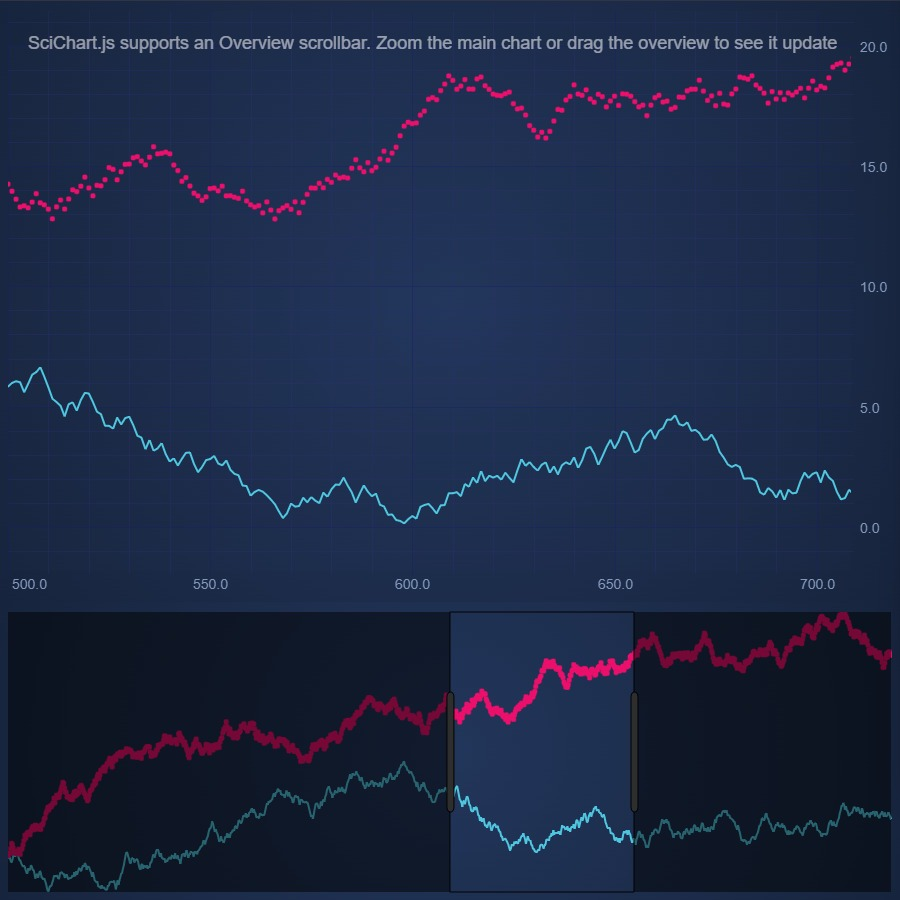
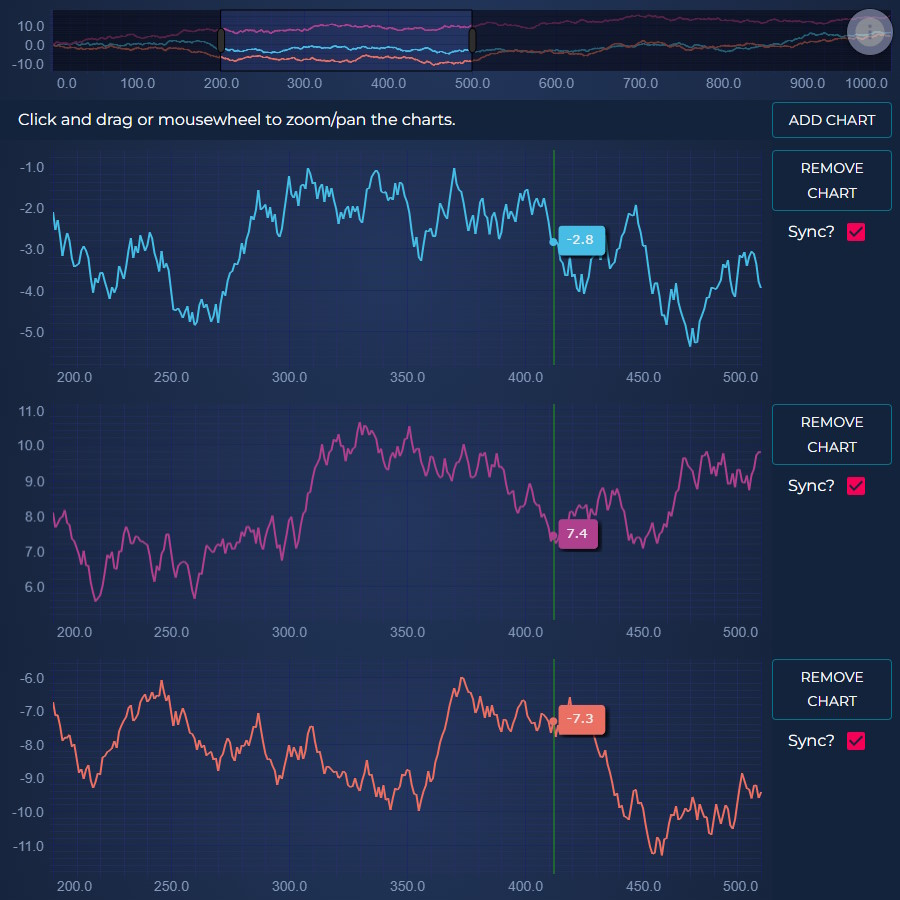
chore(Examples): Improved styling for new example

diff --git a/Examples/src/components/Examples/Charts2D/MultiChart/SyncMultiChart/index.tsx b/Examples/src/components/Examples/Charts2D/MultiChart/SyncMultiChart/index.tsx
@@ -21,6 +21,7 @@ import {
     NumberRange,
     NumericAxis,
     OverviewRangeSelectionModifier,
+    RolloverModifier,
     RubberBandXyZoomModifier,
     SciChartOverview,
     SciChartSurface,
@@ -32,7 +33,7 @@ import {
     ZoomExtentsModifier,
     ZoomPanModifier
 } from "scichart";
-import { Button, Checkbox, FormControlLabel } from "@material-ui/core";
+import { Button, Checkbox, FormControlLabel, Typography } from "@material-ui/core";
 
 export const divOverview = "multiChartOverview";
 export const divChart1 = "multiChart1";
@@ -80,7 +81,8 @@ class AxisSynchroniser {
 
 const createChart = async (divId: string, id: number) => {
     const { wasmContext, sciChartSurface } = await SciChartSurface.create(divId, {
-        theme: appTheme.SciChartJsTheme
+        theme: appTheme.SciChartJsTheme,
+        disableAspect: true
     });
 
     // Create and add an XAxis and YAxis
@@ -104,15 +106,20 @@ const createChart = async (divId: string, id: number) => {
         })
     );
 
-    sciChartSurface.chartModifiers.add(new ZoomPanModifier());
-    sciChartSurface.chartModifiers.add(new RubberBandXyZoomModifier({ executeOn: EExecuteOn.MouseRightButton }));
-    sciChartSurface.chartModifiers.add(new ZoomExtentsModifier());
-    sciChartSurface.chartModifiers.add(new MouseWheelZoomModifier());
+    // Use modifierGroup to trigger the modifier in the same place on multiple charts
+    sciChartSurface.chartModifiers.add(new RolloverModifier({ modifierGroup: "one"}),
+        new RubberBandXyZoomModifier({ executeOn: EExecuteOn.MouseRightButton, modifierGroup:"one" }),
+        // These do not need modifierGroup as the xAxes are synchronised.
+        new ZoomPanModifier(),
+        new ZoomExtentsModifier(),
+        new MouseWheelZoomModifier());
 
     return { sciChartSurface, wasmContext };
 }
 
 const createOverview = async (divId: string, axisSynchroniser: AxisSynchroniser) => {
+    // Note this does not use SciChartOverview. 
+    // Instead we create a normal chart and then manually add the OverviewRangeSelectionModifier and bind it to the axisSynchroniser
     const { wasmContext, sciChartSurface } = await SciChartSurface.create(divId, {
         theme: appTheme.SciChartJsTheme
     });
@@ -129,6 +136,7 @@ const createOverview = async (divId: string, axisSynchroniser: AxisSynchroniser)
     );
 
     const rangeSelectionModifier = new OverviewRangeSelectionModifier();
+    // When the range selection is moved, updated the linked charts
     rangeSelectionModifier.onSelectedAreaChanged = (selectedRange: NumberRange) => {
         if (!selectedRange.equals(axisSynchroniser.visibleRange)) {
             axisSynchroniser.publishChange({ visibleRange: selectedRange });
@@ -137,6 +145,7 @@ const createOverview = async (divId: string, axisSynchroniser: AxisSynchroniser)
     rangeSelectionModifier.selectedArea = axisSynchroniser.visibleRange;
     sciChartSurface.chartModifiers.add(rangeSelectionModifier);
 
+    // When charts are moved, update the range selection
     axisSynchroniser.visibleRangeChanged.subscribe(({ visibleRange }) => {
         const updatedSelectedRange = visibleRange.clip(xAxis.visibleRange);
         const shouldUpdateSelectedRange = !updatedSelectedRange.equals(rangeSelectionModifier.selectedArea);
@@ -179,37 +188,44 @@ const useStyles = makeStyles(theme => ({
     },
     chartRow: {
         display: "flex",
+        flex: "auto",
         flexDirection: "row",
-        flexBasis: "70px",
-        padding: 5,
+        padding: 0,
+        width: "100%",
+        color: appTheme.ForegroundColor
+    },
+    emptyRow: {
+        display: "flex",
+        flexBasis: 0,
+        padding: 0,
         width: "100%",
         color: appTheme.ForegroundColor
     },
     toolCol: {
         display: "flex",
-        // flex: "auto",
-        flexBasis: "70px",
-        padding: 5,
+        flex: "none",
+        width: "130px",
+        padding: "10 10 5 0",
         color: appTheme.ForegroundColor
     },
     chartArea: {
-        flex: 1,
+        flex: "auto",
         padding: "0",
-        "min-height": "70px",
-        height: "100px",
-        resize: "vertical",
-        overflow: "hidden"
+        height: "100%",
       }
 }));
 
 
 export default function SyncMultiChart() {
-    const [chartPanes, setChartPanes] = React.useState<ChartPane[]>([{ id: 0, divId: divOverview, isSynced: true, sciChartSurface: undefined},
+    // We are using a fixed set of divs here as it simplifies the html handling, but this could with dynamic html and an arbitrary number of charts
+    const [chartPanes, setChartPanes] = React.useState<ChartPane[]>([
+        { id: 0, divId: divOverview, isSynced: true, sciChartSurface: undefined},
         { id: 1, divId: divChart1, isSynced: true, sciChartSurface: undefined},
         { id: 2, divId: divChart2, isSynced: true, sciChartSurface: undefined},
         { id: 3, divId: divChart3, isSynced: true, sciChartSurface: undefined},
         { id: 4, divId: divChart4, isSynced: true, sciChartSurface: undefined},
         { id: 5, divId: divChart5, isSynced: true, sciChartSurface: undefined}]);
+        
     const verticalGroupRef = React.useRef<SciChartVerticalGroup>(new SciChartVerticalGroup());
     const axisSynchroniserRef = React.useRef<AxisSynchroniser>(new AxisSynchroniser(new NumberRange(200, 500)));
 
@@ -229,7 +245,7 @@ export default function SyncMultiChart() {
 
     React.useEffect(() => {
 
-        const chartInitializationPromise = addChart(0).then(() => addChart(1)).then(() => addChart(2));
+        const chartInitializationPromise = Promise.all([addChart(0), addChart(1),addChart(2),addChart(3)]);
 
         // Delete sciChartSurface on unmount component to prevent memory leak
         return () => {
@@ -285,38 +301,47 @@ export default function SyncMultiChart() {
         setChartPanes([...chartPanes]);
     }
 
+    const firstFreePane = chartPanes.find(pane => !pane.sciChartSurface);
     return (
         <div className={classes.ChartWrapper}>
             <div className={localClasses.flexOuterContainer}>
-                {chartPanes.map(pane => 
-                    <div className={localClasses.chartRow} key={pane.id}>
-                        <div className={localClasses.chartArea} id={pane.divId}></div>
-                        <div className={localClasses.toolCol}>
-                            {(pane.id > 0) ?
-                                (pane.sciChartSurface ? <div>
-                            <Button color="primary" onClick={() => removeChart(pane.id)}>
-                                Remove Chart
-                            </Button>
-                            <FormControlLabel
-                                control={
-                                    <Checkbox
-                                        checked={pane.isSynced}
-                                        onChange={() => handleChangeSynced(pane.id)}
-                                    />
-                                }
-                                labelPlacement="start"
-                                label="Sync?"
-                            />
-                            </div>  
-                            :
-                            <Button color="primary" onClick={() => addChart(pane.id)}>
-                                Add Chart
-                            </Button>
-                                 ) : ""    
+            <div style={{width: "100%", height: "100px", flex: "none"}}>
+                <div className={localClasses.chartArea} id={chartPanes[0].divId}></div>
+            </div>
+            {firstFreePane ? 
+                <div style={{width: "100%", height: "40px", display: "flex", justifyContent:"space-between", alignItems:"center", flex: "none"}}>    
+                    <Typography  style={{ color: appTheme.ForegroundColor, marginLeft: "20px" }}>
+                        Click and drag or mousewheel to zoom/pan the charts.
+                    </Typography>
+                    <Button color="primary" variant="outlined" onClick={() => addChart(firstFreePane.id)} style={{ width:"120px", flex:"none", color: appTheme.ForegroundColor, marginRight: "10px" }}>
+                        Add Chart
+                    </Button>
+                </div>
+            : "" }   
+            {chartPanes.filter(pane => pane.id > 0).map(pane => 
+                <div className={pane.sciChartSurface ? localClasses.chartRow : localClasses.emptyRow} key={pane.id}>
+                    <div className={pane.sciChartSurface ? localClasses.chartArea : localClasses.emptyRow } id={pane.divId}></div>
+                    { pane.sciChartSurface ? 
+                    <div className={localClasses.toolCol}>
+                        <div>
+                        <Button color="primary" variant="outlined" onClick={() => removeChart(pane.id)} style={{ color: appTheme.ForegroundColor}}>
+                            Remove Chart
+                        </Button>
+                        <FormControlLabel
+                            control={
+                                <Checkbox
+                                    checked={pane.isSynced}
+                                    onChange={() => handleChangeSynced(pane.id)}
+                                />
                             }
-                        </div>   
-                    </div>
-                )}
+                            labelPlacement="start"
+                            label="Sync?"
+                        />
+                        </div> 
+                    </div>   
+                    : "" }
+                </div>
+            )}
             </div>
         </div>
     );

diff --git a/Examples/src/components/Examples/Charts2D/MultiChart/SyncMultiChart/exampleInfo.tsx b/Examples/src/components/Examples/Charts2D/MultiChart/SyncMultiChart/exampleInfo.tsx
@@ -13,6 +13,11 @@ const tips = [
 
 const documentationLinks: TDocumentationLink[] = [
     {
+        href: ExampleStrings.urlSyncDocs,
+        title: "This is a tutorial for how to synchronise the axis and modifiers for multiple charts",
+        linkTitle: "SciChart.js Synchronise Charts Tutorial"
+    },
+    {
         href: ExampleStrings.urlOverviewDocumentation,
         title: ExampleStrings.urlTitleOverviewDocumentation,
         linkTitle: "SciChart.js Overview Documentation"
@@ -41,6 +46,6 @@ export const syncMultiChartExampleInfo: TExampleInfo = {
     previewDescription,
     githubUrl,
     metaDescription: "Synchronise multiple dynamic charts and overview",
-    metaKeywords: "axis, synchronise, multiple, charts, javascript, webgl, canvas",
+    metaKeywords: "axis, synchronise, multiple, charts, overview, zoom, pan, javascript, webgl, canvas",
     thumbnailImage: exampleImage
 };

diff --git a/Examples/src/components/Examples/ExampleStrings.ts b/Examples/src/components/Examples/ExampleStrings.ts
@@ -772,7 +772,8 @@ export const ExampleStrings = {
 
     // SyncMultiChart
     urlSyncMultiChart: "/javascript-sync-multi-chart",
-    titleSyncMultiChart: "Synchronse Multiple Charts",
+    titleSyncMultiChart: "Synchronise Multiple Charts",
+    urlSyncDocs: "https://www.scichart.com/documentation/js/current/webframe.html#Tutorial%2009%20-%20Linking%20Multiple%20Charts.html",
 
     // Oil & Gas Demo
     titleOilAndGasExplorerDashboard: "Oil & Gas Explorer Dashboard",

diff --git a/Examples/src/components/AppRouter/examples.ts b/Examples/src/components/AppRouter/examples.ts
@@ -307,6 +307,8 @@ export const MENU_ITEMS_2D: TMenuItem[] = [
         item: { id: "multichart", name: "Multiple Charts" },
         submenu: [
             EXAMPLES_PAGES.chart2D_multiChart_syncMultiChart,
+            EXAMPLES_PAGES.chart2D_createStockCharts_MultiPaneStockCharts,
+            EXAMPLES_PAGES.featuredApps_showcases_servertrafficdashboard,
         ]
     },
 ];
